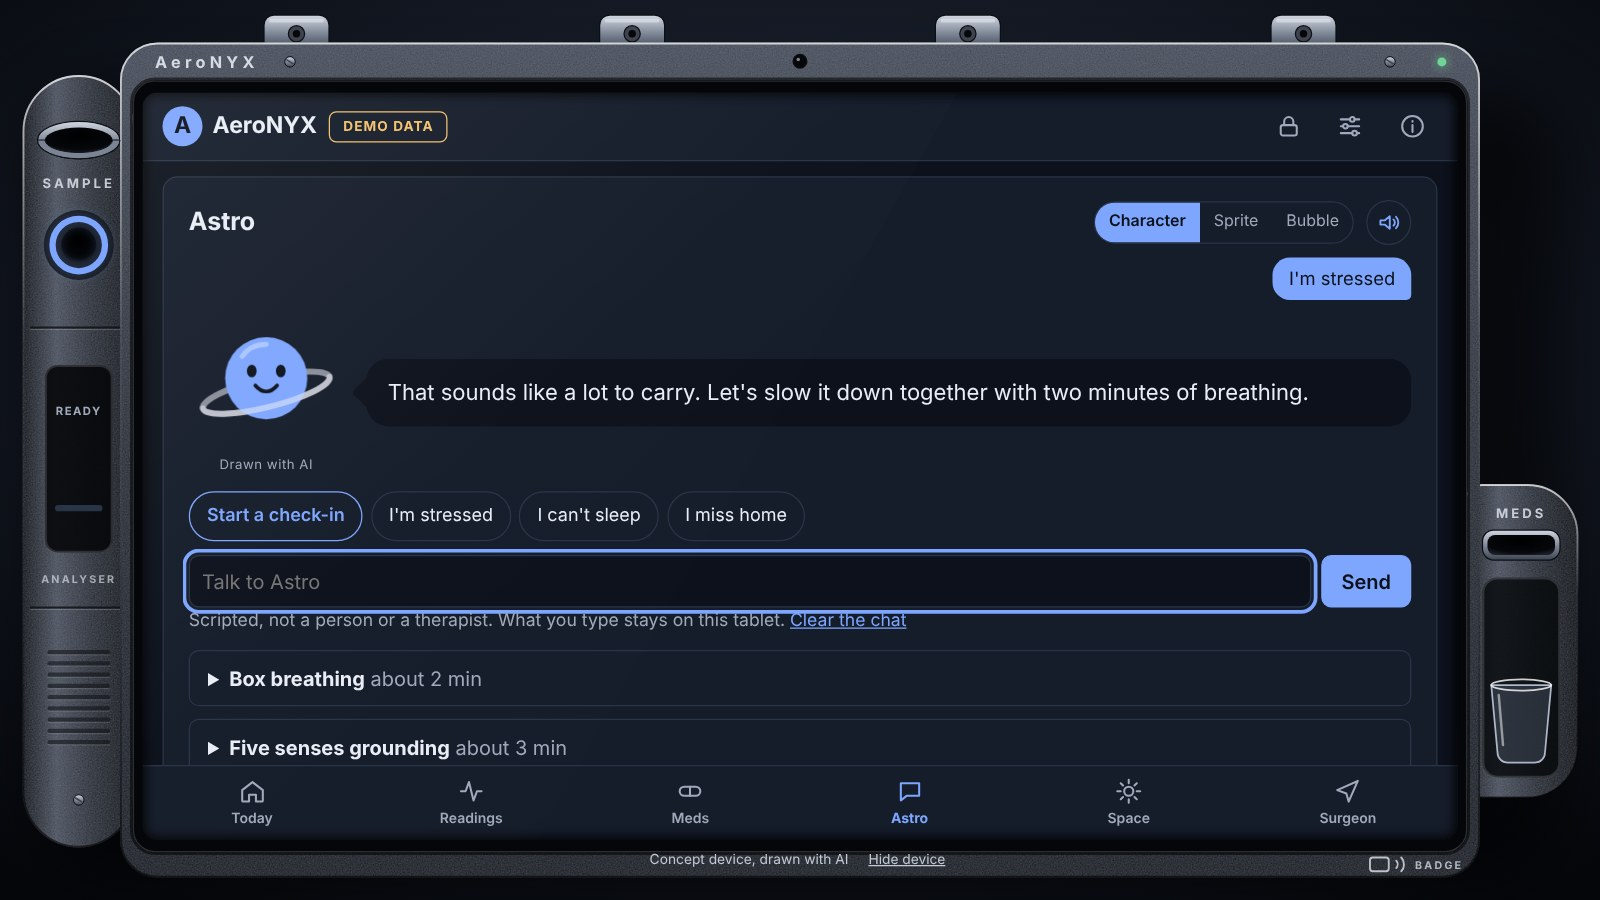
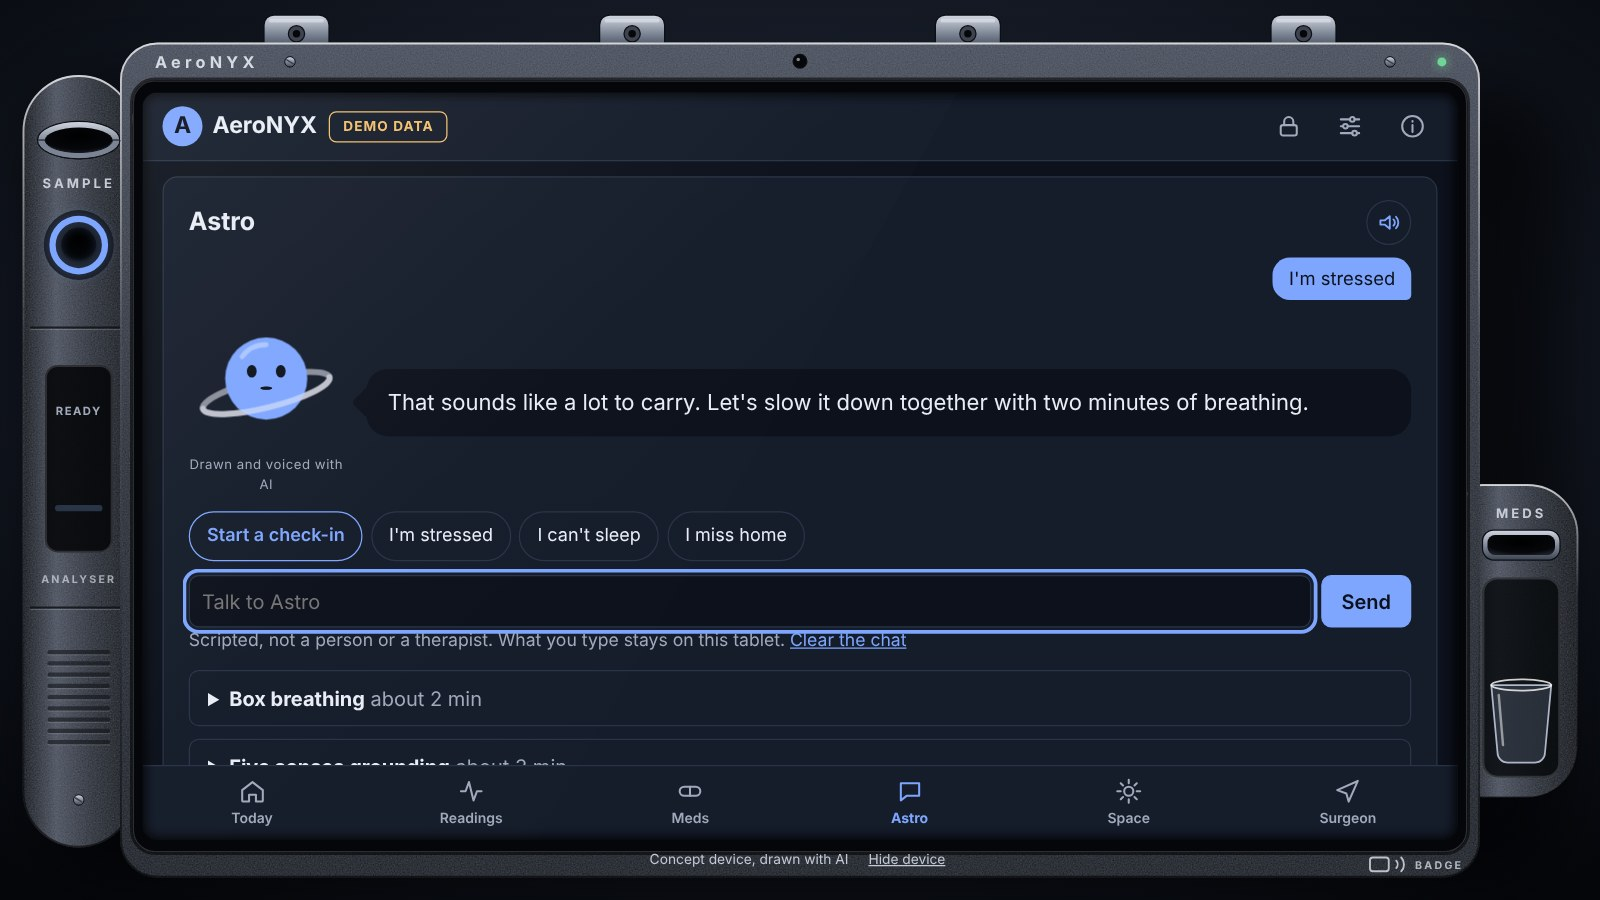
Astro is always the character: remove the sprite and bubble looks and the switch
The team saw all three looks in the app and kept only the character.

- js/lib/persona.js: one drawing; the saved look choice is no longer read
- js/views.js, js/app.js: no look switch on the Astro screen
- README picture of the Astro screen retaken; README, AI-USE.md and the
  About screen no longer mention a sprite or a bubble look

Claude-Session: https://claude.ai/code/session_0113Y2ZeBYBXUC7kAmprQzA1

diff --git a/js/views.js b/js/views.js
@@ -18,7 +18,7 @@ import { gaugeFor, gaugePosition } from './lib/gauge.js';
 import { PANELS } from './lib/sample.js';
 import { lineChart } from './lib/chart.js';
 import { icon } from './lib/icons.js';
-import { LOOKS, LOOK_NAMES, DEFAULT_LOOK, personaSvg } from './lib/persona.js';
+import { personaSvg } from './lib/persona.js';
 import { PIN_LENGTH } from './lib/lock.js';
 
 export function esc(s) {
@@ -332,10 +332,9 @@ function activityBlock(a) {
 
 // Astro speaks from a stage: its character, and what it is saying now in a
 // speech bubble. Everything said before sits under "Earlier in this chat".
-// ui.look: 'character', 'sprite' or 'bubble'. ui.voice: whether Astro reads its lines aloud.
+// ui.voice: whether Astro says its lines aloud.
 export function viewAstro(state, ui = {}) {
   const chat = state.chat || [];
-  const look = LOOKS.includes(ui.look) ? ui.look : DEFAULT_LOOK;
   const thread = [{ id: 'opening', from: 'astro', text: OPENING }, ...chat.slice(-40)];
   const lastIsMe = thread[thread.length - 1].from === 'me';
   let lineAt = thread.length - 1;
@@ -368,23 +367,20 @@ export function viewAstro(state, ui = {}) {
     <tr><td>${esc(fmtWhen(c.t))}</td><td class="num">${c.mood}</td><td class="num">${c.stress}</td><td class="num">${c.loneliness}</td><td>${esc(c.level === LEVEL.HANDOFF ? 'Handed off to people' : c.level === LEVEL.SUPPORT ? 'Support offered' : 'Steady')}</td></tr>`).join('');
   const notes = (state.notesHome || []).slice(-3).reverse().map((n) => `<li><span class="muted small">${esc(fmtWhen(n.t))}</span><br>${esc(n.text)}</li>`).join('');
 
-  const persona = personaSvg(look);
-  const looks = LOOKS.map((l) => `<button type="button" data-action="astro-look" data-look="${l}" aria-pressed="${l === look}">${LOOK_NAMES[l]}</button>`).join('');
+  const persona = personaSvg();
   const voiceOn = ui.voice !== false;
   const voice = ui.canSpeak === false ? '' : `<button type="button" class="voice-btn" data-action="astro-voice" aria-pressed="${voiceOn}" aria-label="Astro's voice is ${voiceOn ? 'on' : 'off'}" title="Astro's voice is ${voiceOn ? 'on' : 'off'}">${icon(voiceOn ? 'sound' : 'mute', 20)}</button>`;
 
   return `
-    <section class="card chat astro-${look}">
+    <section class="card chat astro-character">
       <div class="astro-bar">
         <h1>Astro</h1>
-        <div class="seg" role="group" aria-label="How Astro looks">${looks}</div>
         ${voice}
       </div>
       ${said ? `<p class="said"><span class="sr-only">You said: </span>${esc(said.text)}</p>` : ''}
       <div class="stage" data-astro-stage>
-        ${persona ? `<div class="persona-wrap">${persona}<span class="ai-mark">${ui.recorded ? 'Drawn and voiced with AI' : 'Drawn with AI'}</span></div>` : ''}
+        <div class="persona-wrap">${persona}<span class="ai-mark">${ui.recorded ? 'Drawn and voiced with AI' : 'Drawn with AI'}</span></div>
         <div class="speech${handoffNow ? ' is-handoff' : ''}" aria-live="polite">
-          ${persona ? '' : `<span class="speech-name">Astro<span class="dots" aria-hidden="true"><i></i><i></i><i></i></span>${ui.recorded ? '<span class="ai-mark ai-mark-inline">AI voice</span>' : ''}</span>`}
           <p class="speech-text" data-astro-line data-id="${esc(line.id || '')}">${esc(line.text)}</p>
         </div>
       </div>
@@ -650,7 +646,7 @@ export function viewAbout() {
         <li>Real and saved in the app: the May 2024 solar storm (NASA DONKI), ISS dose measurements (NASA RadLab) and the Inspiration4 crew's blood chemistry ranges (NASA OSDR).</li>
         <li>The medication dispenser is simulated. Most kit items come from NASA's 2015 ISS medical kit list; the unit counts are demo values and the list is not a medical reference.</li>
         <li>The device drawn around the screen is a concept from the team's own sketch, drawn in code with an AI assistant. No hardware exists. The medication dispenser only reacts on screen, and a run of the sample submitter generates simulated values close to the last reading and logs them as simulated.</li>
-        <li>Astro is a scripted companion. Each reply is fixed wording chosen by the words typed. It is not a person, a therapist or an AI model, and what is typed stays on the tablet. Its character and sprite are drawn with AI and marked as such. Its voice is AI-generated speech from ElevenLabs, recorded in advance in a voice the team chose and marked as AI on the Astro screen. The recordings are stored with the app and play from the tablet, so nothing Astro says is sent anywhere.</li>
+        <li>Astro is a scripted companion. Each reply is fixed wording chosen by the words typed. It is not a person, a therapist or an AI model, and what is typed stays on the tablet. Its character is drawn with AI and marked as such. Its voice is AI-generated speech from ElevenLabs, recorded in advance in a voice the team chose and marked as AI on the Astro screen. The recordings are stored with the app and play from the tablet, so nothing Astro says is sent anywhere.</li>
         <li>The badge scan is simulated: no badge reader is connected. The PIN is real. It is kept only as a salted, stretched hash, five wrong tries pause the keypad, and the tablet locks again after five idle minutes. Once a PIN is set, the health record is stored on the tablet only in encrypted form (AES-GCM, under a key stretched from the PIN with PBKDF2) and is opened only after the PIN is entered. While the app stays open the record is held in memory. A four-digit PIN is short, so someone holding the tablet could try all 10,000; a flight unit would add a key held on the badge.</li>
         <li>The flight surgeon console stands in for Mission Control, so one person can show both ends of the loop. The medication dispenser logs a dose and lowers the kit count; no hardware moves.</li>
         <li>Limits are NASA's wherever NASA publishes a number, and each one is labelled with its source. The others are standard adult clinical values used on Earth.</li>

diff --git a/js/app.js b/js/app.js
@@ -12,7 +12,7 @@ import { usesSampleSubmitter } from './lib/device.js';
 import { PANELS, simulateSample } from './lib/sample.js';
 import { initDevice } from './device.js';
 import { initSkin } from './skin.js';
-import { loadLook, saveLook, loadVoicePref, saveVoicePref, speakingMs, typingStep } from './lib/persona.js';
+import { loadVoicePref, saveVoicePref, speakingMs, typingStep } from './lib/persona.js';
 import { loadLock, setPin, checkPin, afterWrongPin, PIN_LENGTH, IDLE_MS, LOCK_KEY } from './lib/lock.js';
 import { hasSpeech, hasRecordings, recordingMs, speak, hush } from './voice.js';
 import { loadState, saveState, clearState, isFirstVisit, newId, merge, hasPlainState, dropPlainState } from './lib/store.js';
@@ -36,11 +36,11 @@ if (!vault && (firstVisit || !hasPlainState())) {
 }
 // flow: the check-in question Astro is waiting on, while one is being asked in the chat.
 // sample: a run of the sample submitter, while it is analysing or showing results.
-// look, voice: how Astro appears and whether it reads its lines aloud.
+// voice: whether Astro says its lines aloud.
 // fresh: the id of a line Astro has just said and has yet to act out.
 const ui = {
   flow: null, sample: null, confirmClear: false, breathing: null,
-  look: loadLook(window.localStorage), voice: loadVoicePref(window.localStorage), fresh: null, greeted: false,
+  voice: loadVoicePref(window.localStorage), fresh: null, greeted: false,
 };
 
 // The tablet opens locked: a badge scan, then a PIN. savedLock is null until a PIN is created.
@@ -180,7 +180,7 @@ function render({ keepFields = false } = {}) {
   switch (r.name) {
     case 'readings': html = viewReadings(state, r.arg); break;
     case 'meds': html = viewMeds(state, nowISO()); break;
-    case 'astro': html = viewAstro(state, { flow: ui.flow, look: ui.look, voice: ui.voice, canSpeak: hasSpeech(), recorded: hasRecordings() }); break;
+    case 'astro': html = viewAstro(state, { flow: ui.flow, voice: ui.voice, canSpeak: hasSpeech(), recorded: hasRecordings() }); break;
     case 'sample': html = viewSample(state, { sample: ui.sample }); break;
     case 'surgeon': html = viewSurgeon(state, nowISO()); break;
     case 'setup': html = viewSetup(state); break;
@@ -269,7 +269,7 @@ function perform() {
   mine.done = window.setTimeout(() => { spoken = true; settle(); }, voiced ? longest : Math.min(2800, speakingMs(text)));
 }
 
-// Act out whatever Astro is saying now once more, after its look or voice changes.
+// Act out whatever Astro is saying now once more, after its voice is switched back on.
 function repeatLine() {
   const el = main.querySelector('[data-astro-line]');
   ui.fresh = el ? el.dataset.id : null;
@@ -601,12 +601,6 @@ const actions = {
     ui.flow = null;
     hush();
     persist();
-    render();
-  },
-  'astro-look': (el) => {
-    ui.look = el.dataset.look;
-    saveLook(window.localStorage, ui.look);
-    repeatLine();
     render();
   },
   'astro-voice': () => {

diff --git a/js/lib/persona.js b/js/lib/persona.js
@@ -1,31 +1,13 @@
-// How Astro appears and sounds: a character, a sprite or a plain speech
-// bubble, drawn in code, and the tablet's own voice.
+// How Astro appears and sounds: a character drawn in code, and the device
+// voice used when there are no recordings.
 //
-// The idea that Astro is a character that speaks, and the three forms offered
-// here, are the team's. The drawings are AI-made and carry a visible mark.
+// The idea that Astro is a character that speaks is the team's. Of the three
+// forms first offered (a character, a sprite, a speech bubble) the team kept
+// the character. The drawing is AI-made and carries a visible mark.
 //
 // AI disclosure: written and drawn with an AI coding assistant (Claude). See AI-USE.md.
 
-export const LOOKS = Object.freeze(['character', 'sprite', 'bubble']);
-export const LOOK_NAMES = Object.freeze({ character: 'Character', sprite: 'Sprite', bubble: 'Bubble' });
-export const DEFAULT_LOOK = 'character';
-
-const LOOK_KEY = 'aeronyx.astro.look.v1';
 const VOICE_KEY = 'aeronyx.astro.voice.v1';
-
-export function loadLook(storage) {
-  try {
-    const v = storage.getItem(LOOK_KEY);
-    return LOOKS.includes(v) ? v : DEFAULT_LOOK;
-  } catch (err) {
-    return DEFAULT_LOOK;
-  }
-}
-
-export function saveLook(storage, look) {
-  if (!LOOKS.includes(look)) return;
-  try { storage.setItem(LOOK_KEY, look); } catch (err) { /* private mode: the choice lasts for this visit */ }
-}
 
 // The voice is on until it is switched off.
 export function loadVoicePref(storage) {
@@ -77,23 +59,7 @@ const CHARACTER = `<svg class="persona persona-character" viewBox="0 0 120 120" 
   <ellipse class="p-mouth" cx="60" cy="66" rx="6" ry="3"/>
 </svg>`;
 
-// A glowing point of light with a sound wave in it.
-const SPRITE = `<svg class="persona persona-sprite" viewBox="0 0 120 120" aria-hidden="true">
-  <circle class="s-halo s-halo-2" cx="60" cy="60" r="52"/>
-  <circle class="s-halo s-halo-1" cx="60" cy="60" r="42"/>
-  <circle class="s-core" cx="60" cy="60" r="30"/>
-  <g class="s-wave">
-    <rect x="42" y="56" width="5" height="8" rx="2.5"/>
-    <rect x="50" y="56" width="5" height="8" rx="2.5"/>
-    <rect x="58" y="56" width="5" height="8" rx="2.5"/>
-    <rect x="66" y="56" width="5" height="8" rx="2.5"/>
-    <rect x="74" y="56" width="5" height="8" rx="2.5"/>
-  </g>
-</svg>`;
-
-// The drawing for a look. The bubble look has none: the speech bubble is Astro.
-export function personaSvg(look) {
-  if (look === 'character') return CHARACTER;
-  if (look === 'sprite') return SPRITE;
-  return '';
+// Astro's drawing.
+export function personaSvg() {
+  return CHARACTER;
 }

diff --git a/AI-USE.md b/AI-USE.md
@@ -21,7 +21,7 @@ This log records where and how AI tools were used, as the 2026 NASA Space Apps P
 - Astro as a calming companion to talk to about stress, with a mental health check-in inside the chat.
 - The judgement that the first screens had too much text, and the choice of the gauge home screen from three looks the assistant drew.
 - The judgement that the screens were still too wordy, and the choice of look A (gauges with icons and fewer words) from three more looks the assistant drew.
-- Astro as a character that actually speaks to the crew, in one of three forms the team named: a character, a sprite or a speech bubble.
+- Astro as a character that actually speaks to the crew, in one of three forms the team named: a character, a sprite or a speech bubble. On Nov 15, after seeing all three in the app, the team kept only the character.
 - The judgement that Astro's built-in voice sounded robotic and had to be comforting and friendly, the decision to record it with ElevenLabs, and the choice of the voice ("Rowan").
 - A radiation warning bar on the Space screen that shows the level and warns when the dose reaches a hazardous limit, and a Space screen made of graphics instead of text.
 - A badge scan and a PIN, so that health information stays private. The team's aim that the health information stay secure is why the stored record is encrypted.
@@ -76,6 +76,7 @@ Times are US Central.
 | Nov 15, 20:35 to 20:40 | Encryption of the stored health record: once a PIN is set the record is written only as AES-GCM ciphertext under a key stretched from the PIN, and is opened after the PIN is entered; an older unencrypted record is encrypted on the next unlock | `js/lib/vault.js`, `js/lib/store.js`, `js/app.js`, `js/views.js`, `tests/` | Disclosure comment in each file; the About screen says what the encryption does and does not protect against |
 | Nov 15, 20:40 to 20:45 | After the team said Astro's built-in voice sounded robotic: the tablet's own voice slowed and set to prefer a device's better voices, and the app made ready to play recorded lines instead (none recorded yet) | `js/voice.js`, `js/lib/persona.js`, `js/data/voice-lines.js`, `tools/voice-lines.mjs`, `tools/build-voice.py`, `tests/` | Disclosure comment in each file; this file |
 | Nov 15, 20:45 to 21:10 | At the team's direction ("record it, go ahead and use elevenlabs") and in the voice the team picked: all 48 lines Astro can say generated as AI speech with ElevenLabs, re-encoded and added to the app, which now plays them instead of the tablet's voice; the About screen, the README and this file updated to say so | `media/voice/`, `js/data/voice-lines.js`, `js/views.js`, `README.md`, `AI-USE.md` | "Drawn and voiced with AI" under Astro's character and sprite; "AI voice" beside the bubble; the About screen; this file |
+| Nov 15, 21:18 to 21:22 | At the team's direction, after it had seen all three looks in the app: the sprite and bubble looks and the switch between them removed, so Astro is always the character; the README picture of the Astro screen retaken | `js/lib/persona.js`, `js/views.js`, `js/app.js`, `tests/`, `README.md`, `media/astro.jpg` | "Drawn and voiced with AI" under Astro's character; this file |
 
 ## How AI output is marked in the project
 
@@ -83,7 +84,7 @@ Times are US Central.
 - The About screen and the page footer state that the code was written with an AI assistant.
 - Simulated data is labelled by a "Demo data" label in the header of every screen, and by "SIMULATED DATA" in the report sent to the flight surgeon. The team asked for the notes that repeated this on each screen to be removed; the About screen keeps the full account of what is real and what is simulated.
 - The concept device carries the line "Concept device, drawn with AI". The About screen says that no hardware exists.
-- Astro's character and sprite carry the line "Drawn and voiced with AI". The bubble look has no drawing and carries "AI voice" beside Astro's name.
+- Astro's character carries the line "Drawn and voiced with AI".
 - Astro's voice is AI-generated speech: 48 recordings made with ElevenLabs (voice "Rowan", chosen by the team), one for each line Astro can say, stored in `media/voice/` and played from the tablet. No speech model runs inside the product and nothing is sent anywhere. ElevenLabs embeds content credentials in the files it makes; the copies here were re-encoded to mono at 64 kbps, which removes that data, so the marks on the Astro screen and this file are the disclosure. With the recordings removed, the app falls back to the browser's built-in speech.
 - The badge scan is simulated; the About screen says so. It also says what the encryption of the stored record does and does not protect against.
 - The Astro screen says that Astro is a scripted companion, not a person or a therapist.

diff --git a/README.md b/README.md
@@ -28,7 +28,7 @@ These are screenshots of the running app. The device around the screen is a conc
 | Sample submitter | Run a blood sample or a 24-hour urine collection. The analysis is simulated: it logs values close to the last readings and says so. |
 | Readings | Log a reading, see it against the reference range and their own baseline, follow the trend on a chart, and read how to take the measurement and why it matters in space. |
 | Medications | See what the flight surgeon prescribed from the onboard kit, record each dose (the dispenser is simulated), follow adherence, and see how the linked reading has moved since the medication started. |
-| Astro | Talk to a companion that speaks: a character, a sprite or a speech bubble that writes out each reply and says it aloud in a recorded voice (AI-generated speech, marked on screen). Talk about stress, sleep or missing home, do a three-question check-in by tapping numbers, get a calming activity, and be handed off to people when the ratings or the words call for it. |
+| Astro | Talk to a companion that speaks: a character that writes out each reply in a speech bubble and says it aloud in a recorded voice (AI-generated speech, marked on screen). Talk about stress, sleep or missing home, do a three-question check-in by tapping numbers, get a calming activity, and be handed off to people when the ratings or the words call for it. |
 | Space | See the mission radiation dose on a bar against NASA's 600 mSv career limit, with a warning when the limit is reached or a solar particle event is under way; NASA space weather as counts and scales; dose rates by mission; the station's live cabin readings as gauges; and today's signal delay to Mars. |
 | Flight surgeon | Send a structured report to the ground and receive replies and prescriptions, with the signal delay for the chosen mission (ISS, Moon or Mars). |
 | Setup | Enter preflight baselines, choose the mission, and load or clear the simulated demo data. |
@@ -163,7 +163,7 @@ js/lib/checkin.js     check-in rules and handoff
 js/lib/chat.js        Astro's scripted replies
 js/lib/sample.js      the simulated sample run
 js/lib/icons.js       line icons, drawn in code
-js/lib/persona.js     Astro's three looks, and the device voice used only if there are no recordings
+js/lib/persona.js     Astro's character, and the device voice used only if there are no recordings
 js/lib/lock.js        the badge and PIN lock
 js/lib/vault.js       the health record, stored encrypted under a key made from the PIN
 js/voice.js           plays Astro's recorded lines
